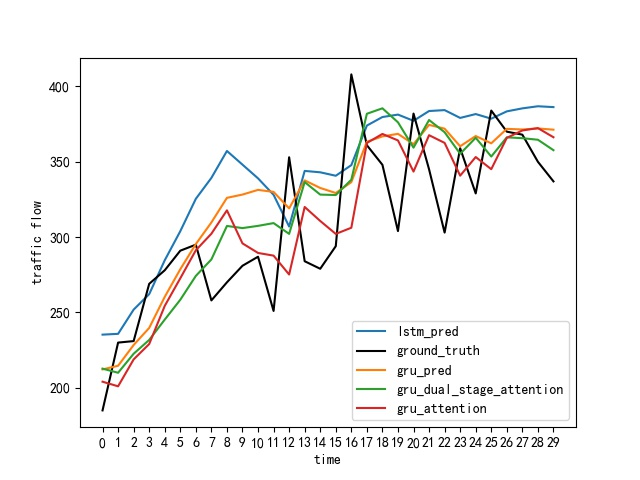
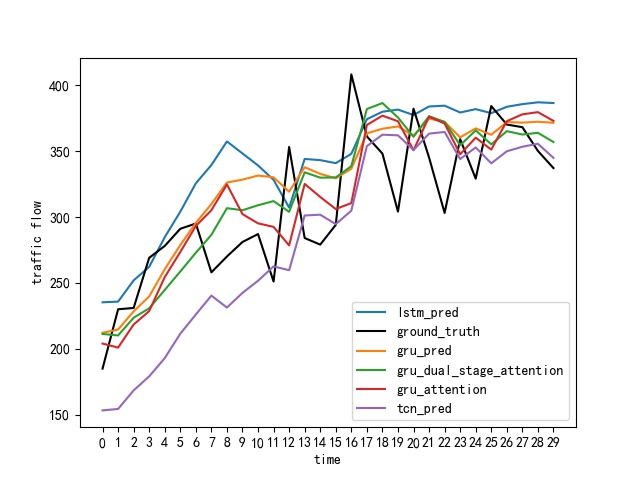
add TCN models into line chart

diff --git a/main_app.py b/main_app.py
@@ -17,7 +17,7 @@ import matplotlib.pyplot as plt
 if __name__ == '__main__':
     """数据读取，及数据处理，标准化"""
     # data=np.load(my_parameter.RAW_PATH)['data'][:,0,:]
-    data=data_process.scal_data(data)
+    # data=data_process.scal_data(data)
     # data_df=pd.DataFrame(data,columns=['traffic_flow','share','speed'])
     # data_df=data_process.get_history_data(data_df,columns=['traffic_flow','share','speed'])
 
@@ -172,6 +172,7 @@ if __name__ == '__main__':
     plt.plot(time,GRU_pred[:time_range,show_feature],label='gru_pred')
     plt.plot(time,GRU_dual_stage_attention_pred[:time_range,show_feature],label='gru_dual_stage_attention')
     plt.plot(time, GRU_attention_pred[:time_range, show_feature], label='gru_attention')
+    plt.plot(time,TCN_attention_pred[:time_range,show_feature],label='tcn_pred')
     plt.legend()
     plt.xlabel('time')
     plt.ylabel('traffic flow')
